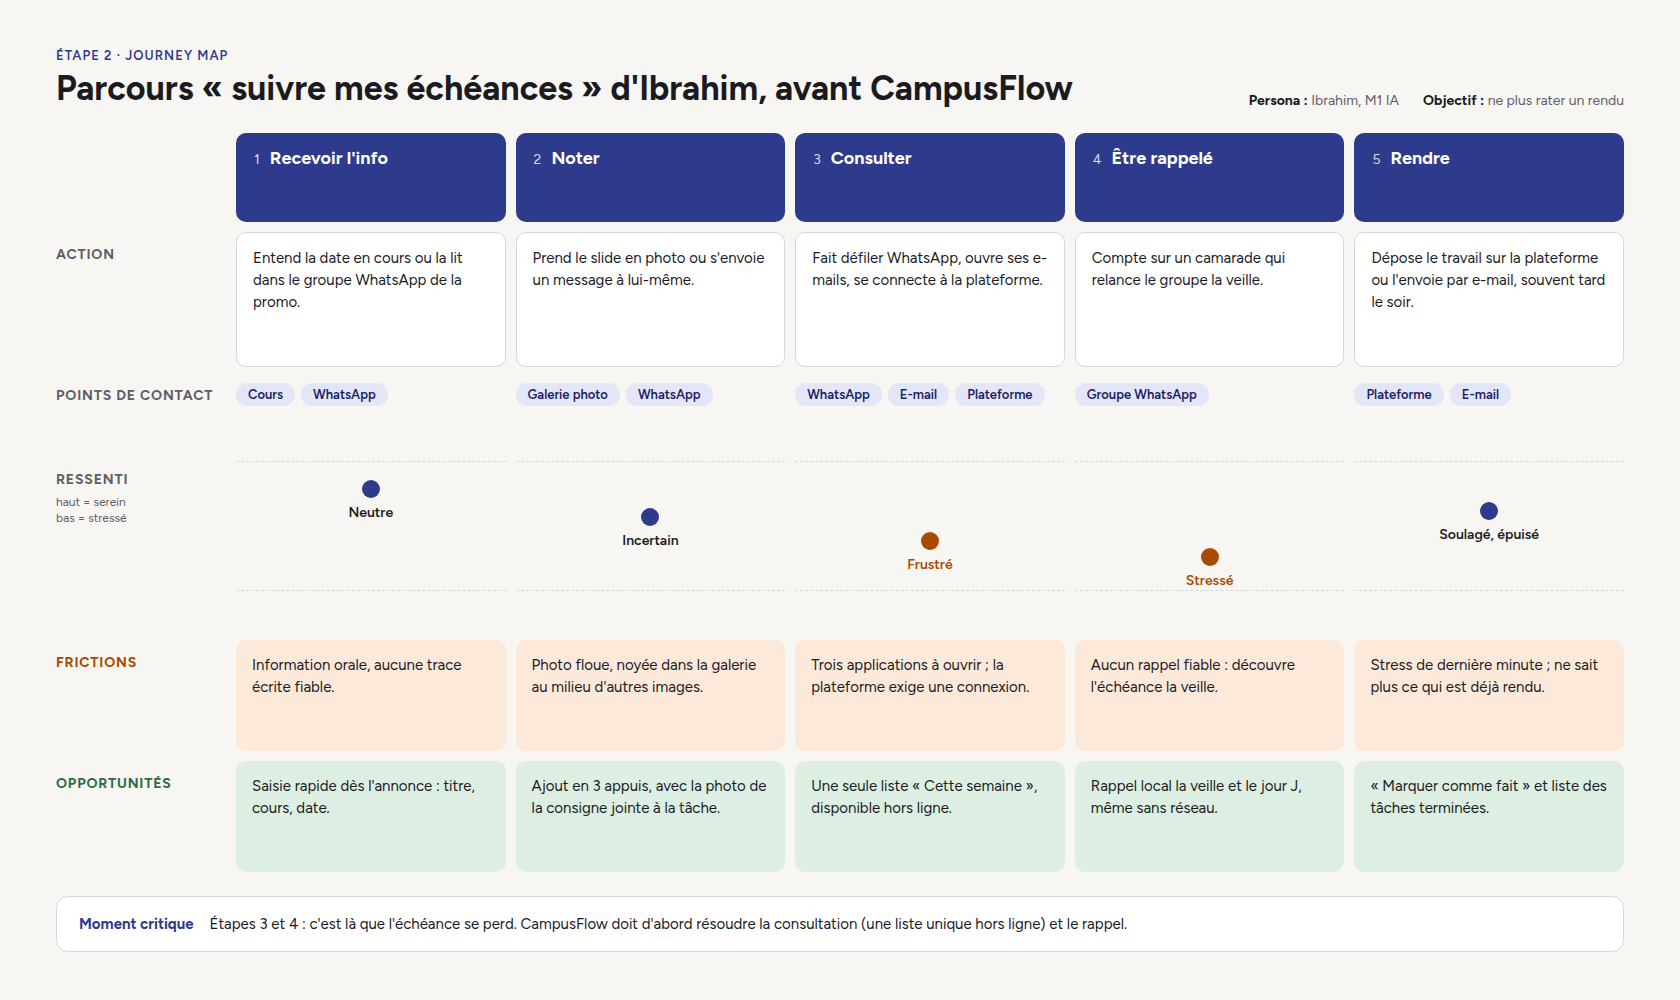
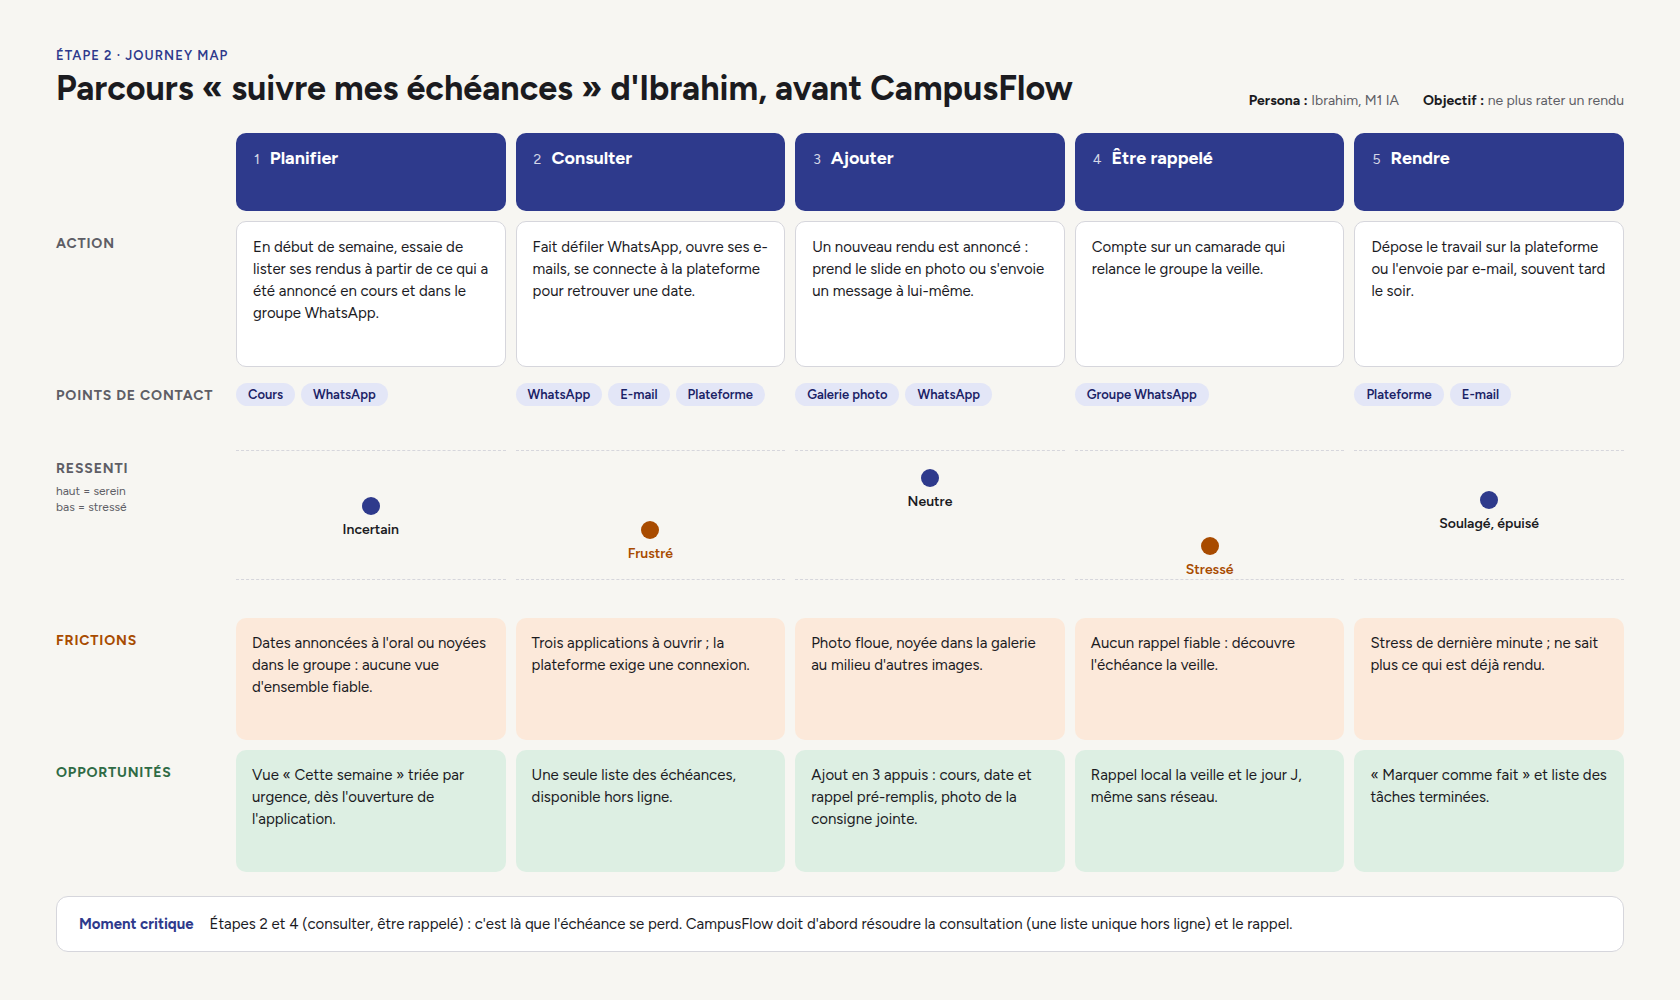
Séance 2 : parcours repris sur les cinq étapes du sujet (planifier, consulter, ajouter, être rappelé, rendre)

diff --git a/docs/seance2/sources/Parcours.html b/docs/seance2/sources/Parcours.html
@@ -27,27 +27,27 @@ a{color:#2E3A8C}a:hover{color:#1A2266}
   </div>
 
   <div style="display: grid; grid-template-columns: 170px repeat(5, minmax(0, 1fr)); gap: 10px; flex-grow: 1">
-    <!-- En-têtes d'étapes -->
+    <!-- En-têtes d'étapes : planifier, consulter, ajouter, être rappelé, rendre -->
     <div></div>
-    <div style="background: #2E3A8C; color: #FFFFFF; border-radius: 10px; padding: 14px 18px; display: flex; gap: 10px; align-items: baseline"><span style="font-size: 14px; opacity: 0.8">1</span><span style="font-size: 18px; font-weight: 700">Recevoir l'info</span></div>
-    <div style="background: #2E3A8C; color: #FFFFFF; border-radius: 10px; padding: 14px 18px; display: flex; gap: 10px; align-items: baseline"><span style="font-size: 14px; opacity: 0.8">2</span><span style="font-size: 18px; font-weight: 700">Noter</span></div>
-    <div style="background: #2E3A8C; color: #FFFFFF; border-radius: 10px; padding: 14px 18px; display: flex; gap: 10px; align-items: baseline"><span style="font-size: 14px; opacity: 0.8">3</span><span style="font-size: 18px; font-weight: 700">Consulter</span></div>
+    <div style="background: #2E3A8C; color: #FFFFFF; border-radius: 10px; padding: 14px 18px; display: flex; gap: 10px; align-items: baseline"><span style="font-size: 14px; opacity: 0.8">1</span><span style="font-size: 18px; font-weight: 700">Planifier</span></div>
+    <div style="background: #2E3A8C; color: #FFFFFF; border-radius: 10px; padding: 14px 18px; display: flex; gap: 10px; align-items: baseline"><span style="font-size: 14px; opacity: 0.8">2</span><span style="font-size: 18px; font-weight: 700">Consulter</span></div>
+    <div style="background: #2E3A8C; color: #FFFFFF; border-radius: 10px; padding: 14px 18px; display: flex; gap: 10px; align-items: baseline"><span style="font-size: 14px; opacity: 0.8">3</span><span style="font-size: 18px; font-weight: 700">Ajouter</span></div>
     <div style="background: #2E3A8C; color: #FFFFFF; border-radius: 10px; padding: 14px 18px; display: flex; gap: 10px; align-items: baseline"><span style="font-size: 14px; opacity: 0.8">4</span><span style="font-size: 18px; font-weight: 700">Être rappelé</span></div>
     <div style="background: #2E3A8C; color: #FFFFFF; border-radius: 10px; padding: 14px 18px; display: flex; gap: 10px; align-items: baseline"><span style="font-size: 14px; opacity: 0.8">5</span><span style="font-size: 18px; font-weight: 700">Rendre</span></div>
 
     <!-- Actions -->
     <div style="font-size: 14px; font-weight: 700; letter-spacing: 0.06em; text-transform: uppercase; color: #5E5E66; padding-top: 14px">Action</div>
-    <div style="background: #FFFFFF; border: 1px solid #D6D6DC; border-radius: 10px; padding: 14px 16px; font-size: 15px; line-height: 22px">Entend la date en cours ou la lit dans le groupe WhatsApp de la promo.</div>
-    <div style="background: #FFFFFF; border: 1px solid #D6D6DC; border-radius: 10px; padding: 14px 16px; font-size: 15px; line-height: 22px">Prend le slide en photo ou s'envoie un message à lui-même.</div>
-    <div style="background: #FFFFFF; border: 1px solid #D6D6DC; border-radius: 10px; padding: 14px 16px; font-size: 15px; line-height: 22px">Fait défiler WhatsApp, ouvre ses e-mails, se connecte à la plateforme.</div>
+    <div style="background: #FFFFFF; border: 1px solid #D6D6DC; border-radius: 10px; padding: 14px 16px; font-size: 15px; line-height: 22px">En début de semaine, essaie de lister ses rendus à partir de ce qui a été annoncé en cours et dans le groupe WhatsApp.</div>
+    <div style="background: #FFFFFF; border: 1px solid #D6D6DC; border-radius: 10px; padding: 14px 16px; font-size: 15px; line-height: 22px">Fait défiler WhatsApp, ouvre ses e-mails, se connecte à la plateforme pour retrouver une date.</div>
+    <div style="background: #FFFFFF; border: 1px solid #D6D6DC; border-radius: 10px; padding: 14px 16px; font-size: 15px; line-height: 22px">Un nouveau rendu est annoncé : prend le slide en photo ou s'envoie un message à lui-même.</div>
     <div style="background: #FFFFFF; border: 1px solid #D6D6DC; border-radius: 10px; padding: 14px 16px; font-size: 15px; line-height: 22px">Compte sur un camarade qui relance le groupe la veille.</div>
     <div style="background: #FFFFFF; border: 1px solid #D6D6DC; border-radius: 10px; padding: 14px 16px; font-size: 15px; line-height: 22px">Dépose le travail sur la plateforme ou l'envoie par e-mail, souvent tard le soir.</div>
 
     <!-- Points de contact -->
     <div style="font-size: 14px; font-weight: 700; letter-spacing: 0.06em; text-transform: uppercase; color: #5E5E66; padding-top: 10px">Points de contact</div>
     <div style="display: flex; flex-wrap: wrap; gap: 6px; align-content: flex-start; padding: 6px 0"><span style="background: #E3E6F7; color: #1A2266; border-radius: 999px; padding: 4px 12px; font-size: 13px; font-weight: 600">Cours</span><span style="background: #E3E6F7; color: #1A2266; border-radius: 999px; padding: 4px 12px; font-size: 13px; font-weight: 600">WhatsApp</span></div>
-    <div style="display: flex; flex-wrap: wrap; gap: 6px; align-content: flex-start; padding: 6px 0"><span style="background: #E3E6F7; color: #1A2266; border-radius: 999px; padding: 4px 12px; font-size: 13px; font-weight: 600">Galerie photo</span><span style="background: #E3E6F7; color: #1A2266; border-radius: 999px; padding: 4px 12px; font-size: 13px; font-weight: 600">WhatsApp</span></div>
     <div style="display: flex; flex-wrap: wrap; gap: 6px; align-content: flex-start; padding: 6px 0"><span style="background: #E3E6F7; color: #1A2266; border-radius: 999px; padding: 4px 12px; font-size: 13px; font-weight: 600">WhatsApp</span><span style="background: #E3E6F7; color: #1A2266; border-radius: 999px; padding: 4px 12px; font-size: 13px; font-weight: 600">E-mail</span><span style="background: #E3E6F7; color: #1A2266; border-radius: 999px; padding: 4px 12px; font-size: 13px; font-weight: 600">Plateforme</span></div>
+    <div style="display: flex; flex-wrap: wrap; gap: 6px; align-content: flex-start; padding: 6px 0"><span style="background: #E3E6F7; color: #1A2266; border-radius: 999px; padding: 4px 12px; font-size: 13px; font-weight: 600">Galerie photo</span><span style="background: #E3E6F7; color: #1A2266; border-radius: 999px; padding: 4px 12px; font-size: 13px; font-weight: 600">WhatsApp</span></div>
     <div style="display: flex; flex-wrap: wrap; gap: 6px; align-content: flex-start; padding: 6px 0"><span style="background: #E3E6F7; color: #1A2266; border-radius: 999px; padding: 4px 12px; font-size: 13px; font-weight: 600">Groupe WhatsApp</span></div>
     <div style="display: flex; flex-wrap: wrap; gap: 6px; align-content: flex-start; padding: 6px 0"><span style="background: #E3E6F7; color: #1A2266; border-radius: 999px; padding: 4px 12px; font-size: 13px; font-weight: 600">Plateforme</span><span style="background: #E3E6F7; color: #1A2266; border-radius: 999px; padding: 4px 12px; font-size: 13px; font-weight: 600">E-mail</span></div>
 
@@ -56,32 +56,32 @@ a{color:#2E3A8C}a:hover{color:#1A2266}
       <div style="font-size: 14px; font-weight: 700; letter-spacing: 0.06em; text-transform: uppercase; color: #5E5E66">Ressenti</div>
       <div style="font-size: 12px; line-height: 16px; color: #5E5E66">haut = serein<br>bas = stressé</div>
     </div>
-    <div style="height: 130px; border-top: 1px dashed #D6D6DC; border-bottom: 1px dashed #D6D6DC; box-sizing: border-box; padding-top: 18px; display: flex; flex-direction: column; align-items: center; gap: 6px"><div style="width: 18px; height: 18px; border-radius: 999px; background: #2E3A8C"></div><div style="font-size: 14px; font-weight: 600">Neutre</div></div>
     <div style="height: 130px; border-top: 1px dashed #D6D6DC; border-bottom: 1px dashed #D6D6DC; box-sizing: border-box; padding-top: 46px; display: flex; flex-direction: column; align-items: center; gap: 6px"><div style="width: 18px; height: 18px; border-radius: 999px; background: #2E3A8C"></div><div style="font-size: 14px; font-weight: 600">Incertain</div></div>
     <div style="height: 130px; border-top: 1px dashed #D6D6DC; border-bottom: 1px dashed #D6D6DC; box-sizing: border-box; padding-top: 70px; display: flex; flex-direction: column; align-items: center; gap: 6px"><div style="width: 18px; height: 18px; border-radius: 999px; background: #A84B00"></div><div style="font-size: 14px; font-weight: 600; color: #A84B00">Frustré</div></div>
+    <div style="height: 130px; border-top: 1px dashed #D6D6DC; border-bottom: 1px dashed #D6D6DC; box-sizing: border-box; padding-top: 18px; display: flex; flex-direction: column; align-items: center; gap: 6px"><div style="width: 18px; height: 18px; border-radius: 999px; background: #2E3A8C"></div><div style="font-size: 14px; font-weight: 600">Neutre</div></div>
     <div style="height: 130px; border-top: 1px dashed #D6D6DC; border-bottom: 1px dashed #D6D6DC; box-sizing: border-box; padding-top: 86px; display: flex; flex-direction: column; align-items: center; gap: 6px"><div style="width: 18px; height: 18px; border-radius: 999px; background: #A84B00"></div><div style="font-size: 14px; font-weight: 600; color: #A84B00">Stressé</div></div>
     <div style="height: 130px; border-top: 1px dashed #D6D6DC; border-bottom: 1px dashed #D6D6DC; box-sizing: border-box; padding-top: 40px; display: flex; flex-direction: column; align-items: center; gap: 6px"><div style="width: 18px; height: 18px; border-radius: 999px; background: #2E3A8C"></div><div style="font-size: 14px; font-weight: 600">Soulagé, épuisé</div></div>
 
     <!-- Frictions -->
     <div style="font-size: 14px; font-weight: 700; letter-spacing: 0.06em; text-transform: uppercase; color: #A84B00; padding-top: 14px">Frictions</div>
-    <div style="background: #FCE9DA; border-radius: 10px; padding: 14px 16px; font-size: 15px; line-height: 22px">Information orale, aucune trace écrite fiable.</div>
-    <div style="background: #FCE9DA; border-radius: 10px; padding: 14px 16px; font-size: 15px; line-height: 22px">Photo floue, noyée dans la galerie au milieu d'autres images.</div>
+    <div style="background: #FCE9DA; border-radius: 10px; padding: 14px 16px; font-size: 15px; line-height: 22px">Dates annoncées à l'oral ou noyées dans le groupe : aucune vue d'ensemble fiable.</div>
     <div style="background: #FCE9DA; border-radius: 10px; padding: 14px 16px; font-size: 15px; line-height: 22px">Trois applications à ouvrir ; la plateforme exige une connexion.</div>
+    <div style="background: #FCE9DA; border-radius: 10px; padding: 14px 16px; font-size: 15px; line-height: 22px">Photo floue, noyée dans la galerie au milieu d'autres images.</div>
     <div style="background: #FCE9DA; border-radius: 10px; padding: 14px 16px; font-size: 15px; line-height: 22px">Aucun rappel fiable : découvre l'échéance la veille.</div>
     <div style="background: #FCE9DA; border-radius: 10px; padding: 14px 16px; font-size: 15px; line-height: 22px">Stress de dernière minute ; ne sait plus ce qui est déjà rendu.</div>
 
     <!-- Opportunités -->
     <div style="font-size: 14px; font-weight: 700; letter-spacing: 0.06em; text-transform: uppercase; color: #2F6B45; padding-top: 14px">Opportunités</div>
-    <div style="background: #DDEFE3; border-radius: 10px; padding: 14px 16px; font-size: 15px; line-height: 22px">Saisie rapide dès l'annonce : titre, cours, date.</div>
-    <div style="background: #DDEFE3; border-radius: 10px; padding: 14px 16px; font-size: 15px; line-height: 22px">Ajout en 3 appuis, avec la photo de la consigne jointe à la tâche.</div>
-    <div style="background: #DDEFE3; border-radius: 10px; padding: 14px 16px; font-size: 15px; line-height: 22px">Une seule liste « Cette semaine », disponible hors ligne.</div>
+    <div style="background: #DDEFE3; border-radius: 10px; padding: 14px 16px; font-size: 15px; line-height: 22px">Vue « Cette semaine » triée par urgence, dès l'ouverture de l'application.</div>
+    <div style="background: #DDEFE3; border-radius: 10px; padding: 14px 16px; font-size: 15px; line-height: 22px">Une seule liste des échéances, disponible hors ligne.</div>
+    <div style="background: #DDEFE3; border-radius: 10px; padding: 14px 16px; font-size: 15px; line-height: 22px">Ajout en 3 appuis : cours, date et rappel pré-remplis, photo de la consigne jointe.</div>
     <div style="background: #DDEFE3; border-radius: 10px; padding: 14px 16px; font-size: 15px; line-height: 22px">Rappel local la veille et le jour J, même sans réseau.</div>
     <div style="background: #DDEFE3; border-radius: 10px; padding: 14px 16px; font-size: 15px; line-height: 22px">« Marquer comme fait » et liste des tâches terminées.</div>
   </div>
 
   <div style="background: #FFFFFF; border: 1px solid #D6D6DC; border-radius: 12px; padding: 16px 22px; display: flex; gap: 16px; align-items: center; font-size: 15px; line-height: 22px">
     <div style="font-weight: 700; color: #2E3A8C; flex-shrink: 0">Moment critique</div>
-    <div>Étapes 3 et 4 : c'est là que l'échéance se perd. CampusFlow doit d'abord résoudre la consultation (une liste unique hors ligne) et le rappel.</div>
+    <div>Étapes 2 et 4 (consulter, être rappelé) : c'est là que l'échéance se perd. CampusFlow doit d'abord résoudre la consultation (une liste unique hors ligne) et le rappel.</div>
   </div>
 </div>
 </x-dc>
